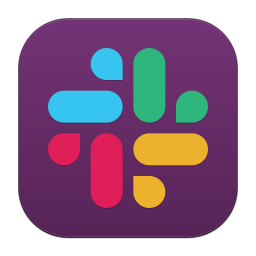
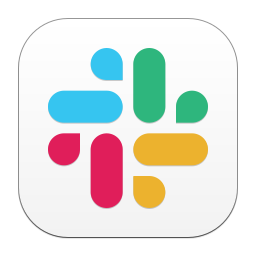
Updated Slack background

diff --git a/README.md b/README.md
@@ -9,16 +9,17 @@ Custom icons for Moka Icon Theme of the [Moka Project](https://snwh.org/moka) ma
 ![](Moka/48x48/apps/appimagekit-speedy-duplicate-finder.png)
 ![](Moka/48x48/apps/com.github.babluboy.bookworm.png)
 ![](Moka/48x48/apps/com.github.bleakgrey.tootle.png)
+![](Moka/48x48/apps/com.uploadedlobster.peek.png)
 ![](Moka/48x48/apps/fma-config-tool.png)
 ![](Moka/48x48/apps/franz.png)
 ![](Moka/48x48/apps/gradio.png)
 ![](Moka/48x48/apps/kdeconnect.png)
+![](Moka/48x48/apps/masterpdfeditor4.png)
 ![](Moka/48x48/apps/onlyoffice.png)
 ![](Moka/48x48/apps/org.gnome.Fractal.png)
 ![](Moka/48x48/apps/org.gnome.Podcasts.png)
 ![](Moka/48x48/apps/org.gnome.Usage.png)
 ![](Moka/48x48/apps/pdfeditor.png)
-![](Moka/48x48/apps/com.uploadedlobster.peek.png)
 ![](Moka/48x48/apps/pulseeffects.png)
 ![](Moka/48x48/apps/sysprof.png)
 ![](Moka/48x48/apps/tor-browser.png)
@@ -62,6 +63,7 @@ Custom icons for Moka Icon Theme of the [Moka Project](https://snwh.org/moka) ma
 ![](Moka/48x48/web/web-google-play-music.png)
 ![](Moka/48x48/apps/gpmdp.png)
 ![](Moka/48x48/apps/google-music-manager.png)
+![](Moka/48x48/web/slack.png)
 
 Moka Icon Theme (the icon assets and sources) are licensed under a [Creative Commons Attribution-ShareAlike 4.0](http://creativecommons.org/licenses/by-sa/4.0/legalcode) license.
 
